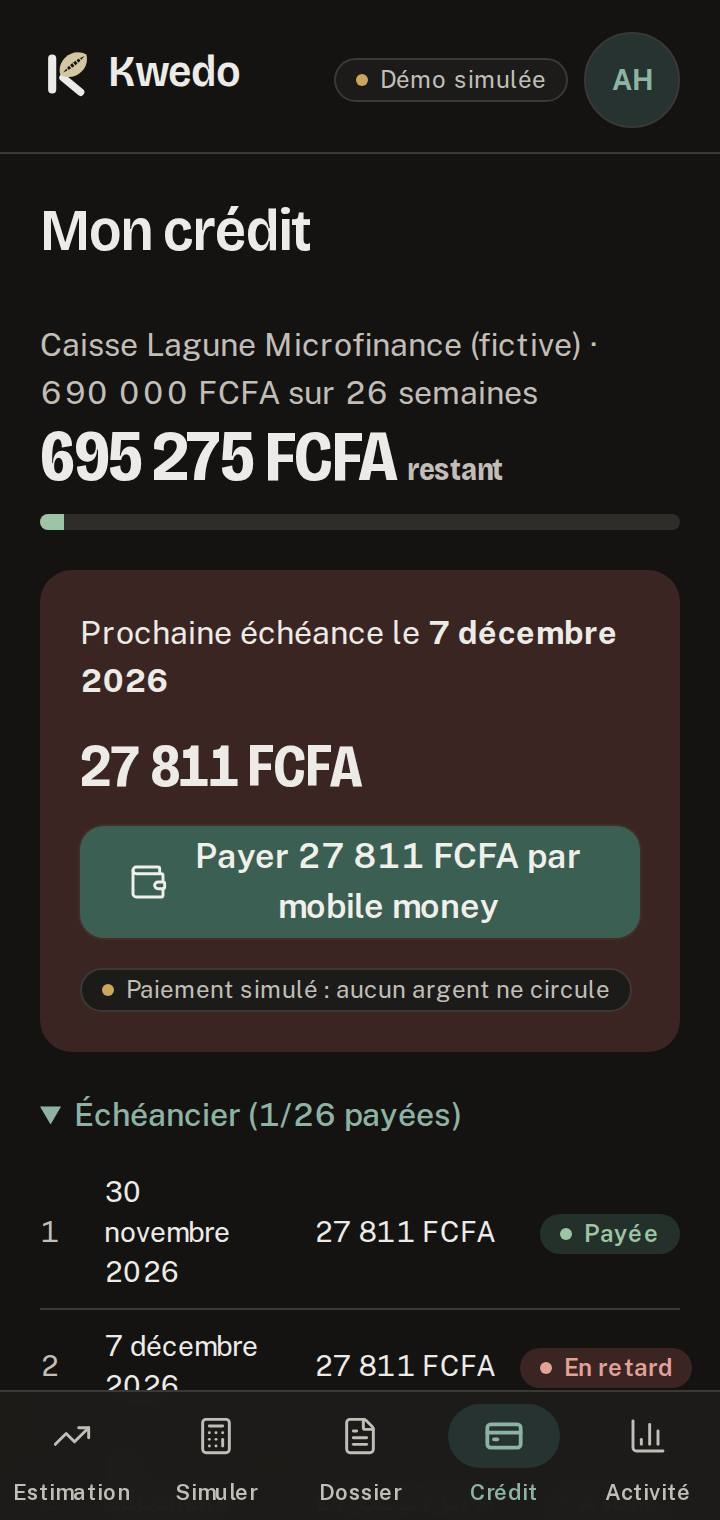
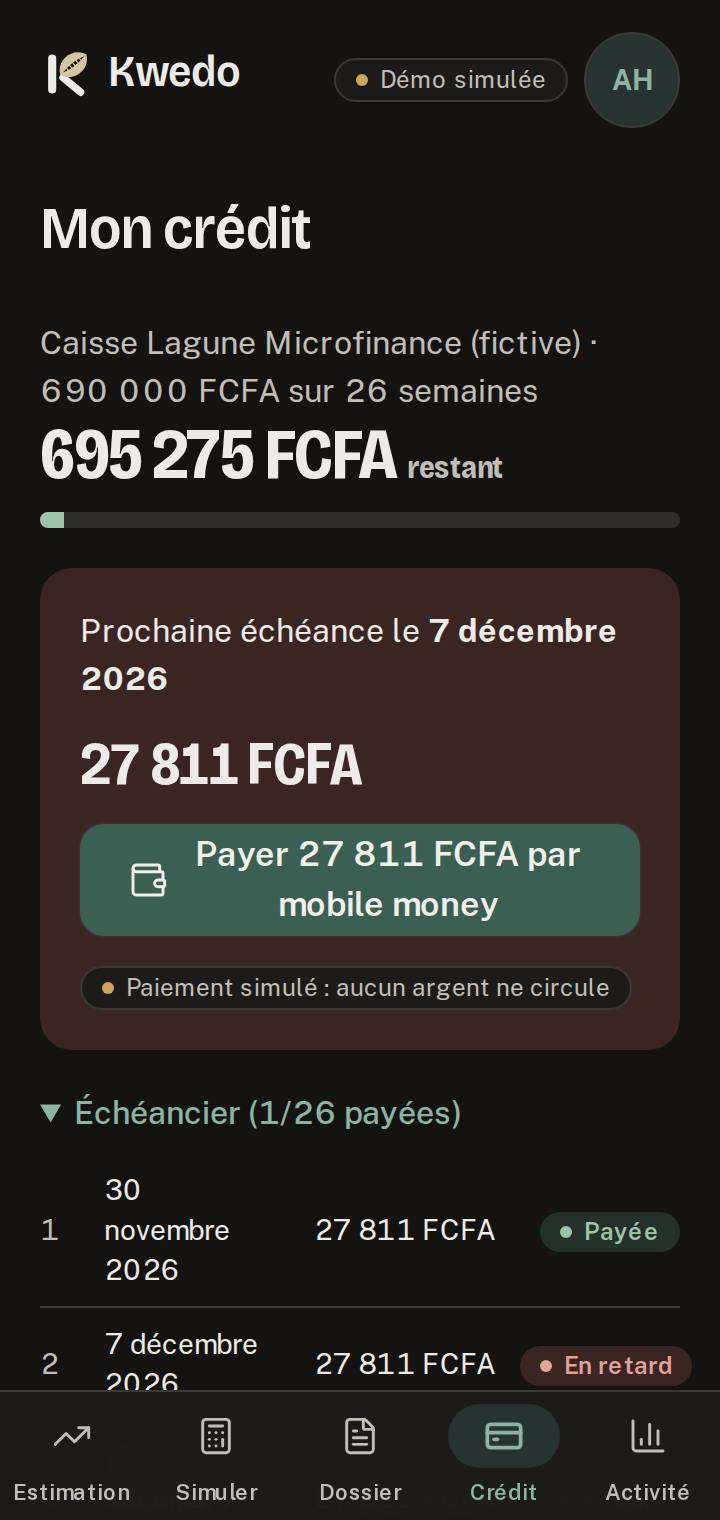
Poids de l'accueil maîtrisé (attribut sizes valide : images 355 → 118 ko), mesure brute et compressée ; ADR 0012, design.md (jetons sombres, marque, pleine largeur, animations, contrastes par surface)

diff --git a/e2e/poids.spec.ts b/e2e/poids.spec.ts
@@ -1,19 +1,33 @@
 import { expect, test } from "@playwright/test";
+import { gzipSync } from "node:zlib";
 
-// Poids de l'accueil (docs/MISSION-VITRINE.md) : corps des réponses (décompressés) au premier chargement, sans cache.
-// Avant la mission vitrine : 779 ko (JS 540, polices 154, CSS 39, HTML 36). Budget : 950 ko, polices comprises.
+// Poids de l'accueil (docs/MISSION-VITRINE.md), premier chargement sans cache à 1440 px.
+// « brut » : corps décompressés ; « gzip » : ces corps recompressés (ordre de grandeur de ce qui transite,
+// le serveur de test ne compresse pas). Polices et images (WOFF2, JPEG/WebP) sont déjà compressées.
+// Avant la mission vitrine : 779 ko bruts (JS 540, polices 154, CSS 39, HTML 36), sans image.
+// Après : 1 013 ko bruts, 486 ko gzip (images 118 : les 4 vraies captures du héros ; polices 180 ; JS 150).
+// Budget : 520 ko gzip, polices et images comprises.
 test("poids de l'accueil", async ({ page }) => {
-  let total = 0;
+  let brut = 0, gzip = 0;
   const parType: Record<string, number> = {};
-  page.on("response", async (r) => {
-    const taille = Number(r.headers()["content-length"] ?? 0) || (await r.body().catch(() => Buffer.alloc(0))).length;
-    const t = r.request().resourceType();
-    total += taille;
-    parType[t] = (parType[t] ?? 0) + taille;
+  const lectures: Promise<void>[] = [];
+  page.on("response", (r) => {
+    lectures.push((async () => {
+      const corps = await r.body().catch(() => Buffer.alloc(0));
+      const t = r.request().resourceType();
+      const deja = t === "font" || t === "image";
+      brut += corps.length;
+      const g = deja ? corps.length : gzipSync(corps).length;
+      gzip += g;
+      parType[t] = (parType[t] ?? 0) + g;
+    })());
   });
   await page.setViewportSize({ width: 1440, height: 900 });
   await page.goto("/");
   await page.waitForLoadState("networkidle");
-  console.log(`POIDS accueil : ${(total / 1024).toFixed(0)} ko`, JSON.stringify(Object.fromEntries(Object.entries(parType).map(([k, v]) => [k, Math.round(v / 1024)]))));
-  expect(total).toBeLessThan(950 * 1024);
+  await page.waitForTimeout(500);
+  await Promise.all(lectures);
+  const ko = (n: number) => Math.round(n / 1024);
+  console.log(`POIDS accueil : ${ko(brut)} ko bruts, ${ko(gzip)} ko gzip`, JSON.stringify(Object.fromEntries(Object.entries(parType).map(([k, v]) => [k, ko(v)]))));
+  expect(gzip).toBeLessThan(520 * 1024);
 });

diff --git a/apps/web/components/vitrine/telephone.tsx b/apps/web/components/vitrine/telephone.tsx
@@ -12,8 +12,10 @@ export function Capture({ nom, alt, l = 360, h = 760, prioritaire = false, sizes
 }
 
 /** Cadre de téléphone (bord dessiné par le jeton --cadre). `ecrans` > 1 : les écrans se succèdent en fondu. */
-export function Telephone({ ecrans, className = "", prioritaire = false, largeur = "18rem" }: {
+export function Telephone({ ecrans, className = "", prioritaire = false, largeur = "18rem", sizes = "(min-width: 1280px) 20vw, (min-width: 640px) 18rem, 72vw" }: {
   ecrans: { nom: string; alt: string }[]; className?: string; prioritaire?: boolean; largeur?: string;
+  /** Attribut sizes valide (pas de clamp) : le navigateur choisit une image à la taille affichée. */
+  sizes?: string;
 }) {
   return (
     <figure className={`shrink-0 ${className}`} style={{ width: largeur, maxWidth: "100%" }}>
@@ -21,7 +23,7 @@ export function Telephone({ ecrans, className = "", prioritaire = false, largeur
         <div className={ecrans.length > 1 ? "defile absolute inset-0" : "absolute inset-0"}>
           {ecrans.map((e, k) => (
             <div key={e.nom} className={ecrans.length > 1 ? "" : "h-full"} aria-hidden={k > 0 ? true : undefined}>
-              <Capture nom={e.nom} alt={k === 0 ? e.alt : ""} prioritaire={prioritaire && k === 0} sizes={`(min-width: 1024px) ${largeur}, 70vw`} />
+              <Capture nom={e.nom} alt={k === 0 ? e.alt : ""} prioritaire={prioritaire && k === 0} sizes={sizes} />
             </div>
           ))}
         </div>

diff --git a/apps/web/app/page.tsx b/apps/web/app/page.tsx
@@ -104,7 +104,7 @@ export default function Accueil() {
 
           {/* Scène : le téléphone fait défiler les vrais écrans ; la courbe et le montant se construisent. */}
           <div className="relative mx-auto grid w-full max-w-[44rem] grid-cols-[minmax(0,1fr)] place-items-center sm:grid-cols-[auto_minmax(0,1fr)] sm:items-center sm:gap-6">
-            <Telephone prioritaire largeur="clamp(15rem, 24vw, 20rem)" ecrans={[
+            <Telephone prioritaire largeur="clamp(15rem, 24vw, 20rem)" sizes="(min-width: 640px) 20rem, 15rem" ecrans={[
               { nom: "estimation", alt: "Écran Estimation de l'application : montant empruntable, échéance, coût total et bouton d'envoi du dossier" },
               { nom: "simulateur", alt: "" }, { nom: "offre", alt: "" }, { nom: "echeancier", alt: "" },
             ]} />

diff --git a/docs/design.md b/docs/design.md
@@ -21,16 +21,45 @@ de travail, fiche de décision au clavier, ton calme. Aucun écran, logo ni coul
 
 | Token | Clair | Sombre | Rôle |
 |---|---|---|---|
-| `fond` | #f2f4f3 | #0c1613 | fond minéral froid |
-| `surface` | #ffffff | #13201c | cartes, tableaux |
-| `surface-2/3`, `trait` | #e7ecea / #d9e0dd / #c9d2ce | #1a2925 / #23352f / #2e423b | survol, chargement, filets |
-| `encre`, `encre-2`, `encre-3` | #0e1d18 / #3b4a44 / #56645e | #e8efec / #b5c3bd / #93a39c | texte |
-| `marque` (+ `-doux`) | #0a5a47 | #6fd0ae | action principale, montants, élément actif |
-| `bon` (+ `-doux`) | #1d6b35 | #87d49a | payé, à jour, validé |
-| `ambre` (+ `-encre`, `-doux`) | #c98a0b | #e9b54a | à vérifier ; `ambre` jamais en texte |
-| `alerte` (+ `-doux`) | #b0261c | #ff9a8f | retard, refus, destruction |
+| `fond` | #f2f4f3 | #141312 | fond (sombre : graphite neutre légèrement chaud, sans teinte verte) |
+| `surface` | #ffffff | #1c1b19 | cartes, tableaux |
+| `surface-2/3`, `trait` | #e7ecea / #d9e0dd / #c9d2ce | #252422 / #2f2d2a / #3b3936 | survol, chargement, filets |
+| `encre`, `encre-2`, `encre-3` | #0e1d18 / #3b4a44 / #56645e | #ecebe7 / #c2beb7 / #a29d95 | texte |
+| `marque` (+ `-doux`) | #0a5a47 | #8db3a4 / #263330 | liens, élément actif, petits signaux |
+| `action` / `sur-action` | #0a5a47 / #f2f4f3 | #3c5f53 / #f1efea | bouton principal (sobre en sombre) |
+| `montant` | #0a5a47 | #ecebe7 | gros montants (texte clair neutre en sombre) |
+| `bon` (+ `-doux`) | #1d6b35 | #9ec4a6 | payé, à jour, validé |
+| `ambre` (+ `-encre`, `-doux`) | #c98a0b | #cfa55a | à vérifier ; `ambre` jamais en texte |
+| `alerte` (+ `-doux`) | #b0261c | #e3a197 | retard, refus, destruction |
+| `logo-barre` / `logo-cauri` | #0e1d18 / #0a5a47 | #ecebe7 / #d4c6a1 | marque cauri-K |
+| `scene` / `sur-scene` | #0a5a47 / #f2f4f3 | #1f1e1c / #ecebe7 | panneau de marque de la connexion |
+| `cadre` | #0e1d18 | #3b3936 | bord des téléphones (démo, accueil) |
 
-Jeton `cadre` (#0e1d18 / #3a5148) : bord du téléphone de la démo, dessiné pour chaque thème.
+Mode sombre (ADR 0012) : la profondeur vient de la clarté des surfaces, pas des ombres ; pas de grand aplat vert ;
+l'accent est réservé à une action par écran et aux petits signaux. Les blocs sombres de `globals.css` sont écrits
+par `node scripts/theme-sombre.mjs apps/web/app/globals.css` à partir d'une seule liste. Contrastes mesurés sur
+**chaque niveau de surface**, dans les deux thèmes : `node scripts/contrastes.mjs --strict`.
+
+## Marque : le cauri-K (ADR 0012)
+
+En fon, *akwɛ́* signifie à la fois « cauri » et « argent ». Barre et jambe d'un K à l'encre, bras supérieur en cauri
+avec son ouverture dentée. Pistes comparées sur `/design`. Composants : `Marque`, `Cauri` (couleur ou `mono`),
+`PileCauris` (une pièce par part remboursée), `CauriChargement`. Fichiers : `app/icon.svg` (suit le thème du
+système), `app/apple-icon.tsx`, `app/opengraph-image.tsx`, `app/manifest.ts`. Ni récit historique, ni visuel
+rituel ; l'étymologie de « Kwedo » n'est pas revendiquée.
+
+## Mise en page pleine largeur
+
+Gouttières fluides `.gouttiere` (`clamp(1.25rem, 4.5vw, 5rem)`) ; grilles qui se réorganisent ; seules les lignes de
+texte sont limitées (60 à 70 caractères). Contrôle à 360, 768, 1440 et 1920 px, clair et sombre :
+`e2e/vitrine.spec.ts`, captures dans `.captures/revue-vitrine/`.
+
+## Animations
+
+CSS seulement, `transform` et `opacity` : `.trace` (courbe), `.compteur` (montant compté via `@property`), `.defile`
+(écrans du téléphone en fondu), `.cauri-empile`, `.cauri-flotte`, `.revele` et `.fil-progres` (au défilement, sous
+`@supports (animation-timeline: view())`, donc absentes sans prise en charge et le contenu reste visible).
+Tout est coupé sous `prefers-reduced-motion`. Console et admin : micro-interactions seulement.
 
 ## Thème clair, sombre, système
 
@@ -67,21 +96,30 @@ l'historique est rechargée, donc le retour arrière ne rouvre pas l'espace. Mas
 
 ### Contrastes (WCAG 2.1, `node scripts/contrastes.mjs`)
 
-| Paire | Clair | Sombre |
+Le script lit `globals.css` et mesure chaque texte sur **chaque niveau de surface** (fond, surface, surface-2,
+surface-3), dans les deux thèmes, plus les paires dédiées. Plus faible valeur par ligne (2026-11-24) :
+
+| Texte (seuil) | Clair, minimum | Sombre, minimum |
 |---|---|---|
-| encre / fond | 15,74 | 15,78 |
-| encre-2 / fond | 8,45 | 10,09 |
-| encre-3 / fond | 5,62 | 6,98 |
-| encre-3 / surface-2 | 5,20 | 5,74 |
-| marque / fond (et texte fond sur bouton marque) | 7,41 | 9,92 |
-| marque / marque-doux | 6,58 | 7,14 |
-| alerte / alerte-doux | 5,26 | 7,67 |
-| bon / bon-doux | 5,38 | 7,91 |
-| ambre-encre / ambre-doux | 7,18 | 9,48 |
-| fond / encre (infobulle) | 15,74 | 15,78 |
-| ambre-encre / surface (icône d'alerte) | 8,48 | 11,59 |
-| encre-2 / surface-2 (survol) | 7,82 | 8,29 |
-| marque / surface (actif, liens) | 8,18 | 9,04 |
+| encre (4,5) | 12,97 | 11,51 |
+| encre-2 (4,5) | 6,96 | 7,42 |
+| encre-3 (4,5) | 4,63 | 5,09 |
+| marque (4,5) | 6,10 | 5,96 |
+| montant (4,5) | 6,10 | 11,51 |
+| alerte (4,5) | 4,99 | 6,41 |
+| bon (4,5) | 4,88 | 7,13 |
+| ambre-encre (4,5) | 6,32 | 8,75 |
+| focus (3) | 6,10 | 7,69 |
+| sur-action / action (4,5) | 7,41 | 6,19 |
+| marque / marque-doux (4,5) | 6,58 | 5,70 |
+| alerte / alerte-doux (4,5) | 5,26 | 6,66 |
+| bon / bon-doux (4,5) | 5,38 | 7,12 |
+| ambre-encre / ambre-doux (4,5) | 7,18 | 8,42 |
+| sur-scene, sur-scene-2 / scene (4,5) | 7,41, 6,58 | 13,96, 9,00 |
+| logo-cauri / fond (3, graphique) | 7,41 | 10,95 |
+
+L'`ambre` clair (2,2 à 3,0 selon la surface) n'est jamais seul porteur de sens : c'est un point ou un liseré qui
+accompagne un libellé. Il est mesuré pour information.
 
 Les deux thèmes sont aussi contrôlés par axe (WCAG 2.1 AA) sur les écrans principaux : `e2e/qualite.spec.ts`.
 

diff --git a/docs/adr/0012-marque-cauri-vitrine.md b/docs/adr/0012-marque-cauri-vitrine.md
@@ -1,0 +1,67 @@
+# ADR 0012 : marque cauri, vitrine pleine largeur, mode sombre graphite
+
+- Statut : accepté
+- Date : 2026-11-24
+
+## Contexte
+
+Retour utilisateur : tout était centré dans une colonne étroite, l'accueil parlait trop peu de la solution et de
+l'app mobile, la marque « K de flux » n'évoquait pas le crédit, et en mode sombre le vert ressortait trop.
+
+## Décisions
+
+### Marque : le cauri-K
+
+En fon, *akwɛ́* signifie à la fois « cauri » et « argent » ; le cauri a servi de monnaie dans la région. Trois pistes
+dessinées (visibles sur `/design`) :
+
+1. **Cauri-K** (retenue) : barre et jambe d'un K à l'encre, bras supérieur formé d'un cauri en amande posé en
+   diagonale, avec son ouverture dentée. Se lit comme un K à 16 px, comme un cauri à partir de 32 px.
+2. Deux demi-cauris en bras de K : K très lisible, mais le cauri disparaît ; ressemble à une flèche.
+3. Cauri en pointe contre une barre : cauri lisible, K faible ; se confond avec un bouton « lecture ».
+
+Le premier dessin du cauri-K avait des dents en travers : il évoquait un ballon de rugby. Les dents sont devenues
+des ponts à l'intérieur d'une ouverture longue, d'une pointe à l'autre, comme sur la coquille.
+
+Livrables : composant `Marque` / `Cauri` (couleur et monochrome), favicon SVG qui suit le thème du système,
+icône d'application 180 px, image Open Graph, manifeste d'app web. Le cauri sert aussi d'objet de marque, avec
+retenue : pile de cauris qui monte avec les remboursements, chargement, panneau de connexion.
+
+**Sensibilité.** Le cauri a aussi servi de monnaie de la traite négrière et a des usages rituels : aucun récit
+historique, aucun visuel de royaume, de vodoun ou de folklore. Nous n'affirmons pas que « Kwedo » vient d'*akwɛ́*
+(étymologie non vérifiée) ; nous écrivons seulement qu'*akwɛ́* signifie cauri et argent en fon.
+
+### Pleine largeur
+
+Plus de colonne centrée comme mise en page : gouttières fluides (`.gouttiere`, `clamp(1.25rem, 4.5vw, 5rem)`),
+grilles qui se réorganisent ; seules les lignes de texte sont limitées (`max-w-[60ch]` environ). Connexion en deux
+panneaux, admin en vue de supervision, espace commerçant avec navigation latérale sur ordinateur et barre du bas
+sur téléphone. Contrôlé à 360, 768, 1440 et 1920 px (`e2e/vitrine.spec.ts`).
+
+### Accueil
+
+Neuf sections : héros (deux entrées, scène animée avec les vrais écrans), problème, solution racontée au
+défilement, app mobile (cinq captures réelles, aucun badge de magasin), simulateur interactif (formule simplifiée,
+« exemple »), calcul, institutions, confiance et limites, état du projet et FAQ. Les captures viennent de l'app,
+générées par `playwright.vitrine.config.ts`. Aucun chiffre de performance, client, partenaire ou témoignage inventé ;
+le résultat du moteur est donné avec sa limite (activités jamais vues) ; aucun gain de temps annoncé ; les chiffres
+de contexte restent « à recontrôler ».
+
+### Animations
+
+CSS seulement, `transform` et `opacity` : courbe qui se trace, compteur du montant (`@property`), écrans du
+téléphone en fondu, cauris qui s'empilent, révélations au défilement sous `@supports (animation-timeline: view())`
+(amélioration progressive : sans prise en charge, tout est visible). Tout est coupé sous
+`prefers-reduced-motion`. `motion` n'a pas été ajouté : le CSS suffit.
+
+### Mode sombre graphite
+
+Surfaces graphite neutre légèrement chaud (#141312 → #2f2d2a), profondeur par la clarté des surfaces, accent
+désaturé (#8db3a4) ; nouveaux jetons `action` (bouton principal sobre, #3c5f53), `montant` (gros montants en texte
+clair neutre), `scene` (panneau de marque), `logo-*`. Le mode clair est inchangé, sauf le logo. Contrastes AA
+mesurés sur chaque niveau de surface (`node scripts/contrastes.mjs --strict`).
+
+## Conséquences
+
+- Poids de l'accueil mesuré avant et après (`e2e/poids.spec.ts`, budget 950 ko décompressés).
+- L'ADR 0010 reste valable pour les tokens du mode clair ; ce document remplace sa marque et son mode sombre.

diff --git a/docs/adr/README.md b/docs/adr/README.md
@@ -13,3 +13,4 @@
 | [0009](0009-comptes-roles-cloisonnement.md) | Profils de démonstration, rôles et cloisonnement des institutions (pas d'authentification) | accepté |
 | [0010](0010-systeme-design-comptoir.md) | Système de design « comptoir » à la place du « registre vivant » | accepté (police d'interface remplacée par 0011) |
 | [0011](0011-police-public-sans.md) | Public Sans comme police d'interface | accepté |
+| [0012](0012-marque-cauri-vitrine.md) | Marque cauri, vitrine pleine largeur, mode sombre graphite | accepté (remplace la marque et le sombre de 0010) |

diff --git a/docs/adr/0010-systeme-design-comptoir.md b/docs/adr/0010-systeme-design-comptoir.md
@@ -1,6 +1,6 @@
 # ADR 0010 : système de design « comptoir » à la place du « registre vivant »
 
-- Statut : accepté ; choix de la police d'interface remplacé par l'ADR 0011
+- Statut : accepté ; choix de la police d'interface remplacé par l'ADR 0011 ; marque et mode sombre remplacés par l'ADR 0012
 - Date : 2026-11-23
 
 ## Contexte
